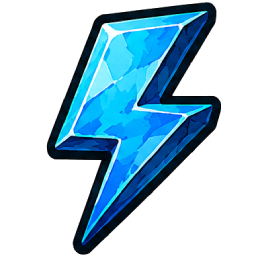
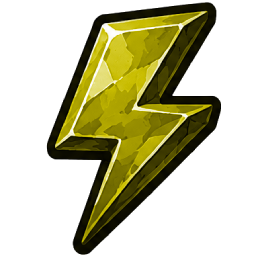
energy and hunger color change

diff --git a/css/character.css b/css/character.css
@@ -35,11 +35,11 @@
 }
 
 .hunger strong {
-  color: #fb923c;
+  color: #3cfb88;
 }
 
 .energy strong {
-  color: #60a5fa;
+  color: #fae560;
 }
 
 .profile-top {
@@ -160,11 +160,11 @@
 }
 
 .status-card.hunger {
-  color: #fb923c;
+  color: #3cfb88;
 }
 
 .status-card.energy {
-  color: #60a5fa;
+  color: #fae560;
 }
 
 .meter-track {
@@ -188,12 +188,14 @@
 }
 
 .status-card.hunger .meter-fill {
-  background: linear-gradient(90deg, #fcd34d, #fb923c);
+  background: linear-gradient(90deg, #97f1bb, #3cfb88);
 }
 
 .status-card.energy .meter-fill {
-  background: linear-gradient(90deg, #93c5fd, #60a5fa);
+  background: linear-gradient(90deg, #eee5a8, #fae560);
 }
+
+
 
 .status-card strong {
   font-size: 1.8rem;